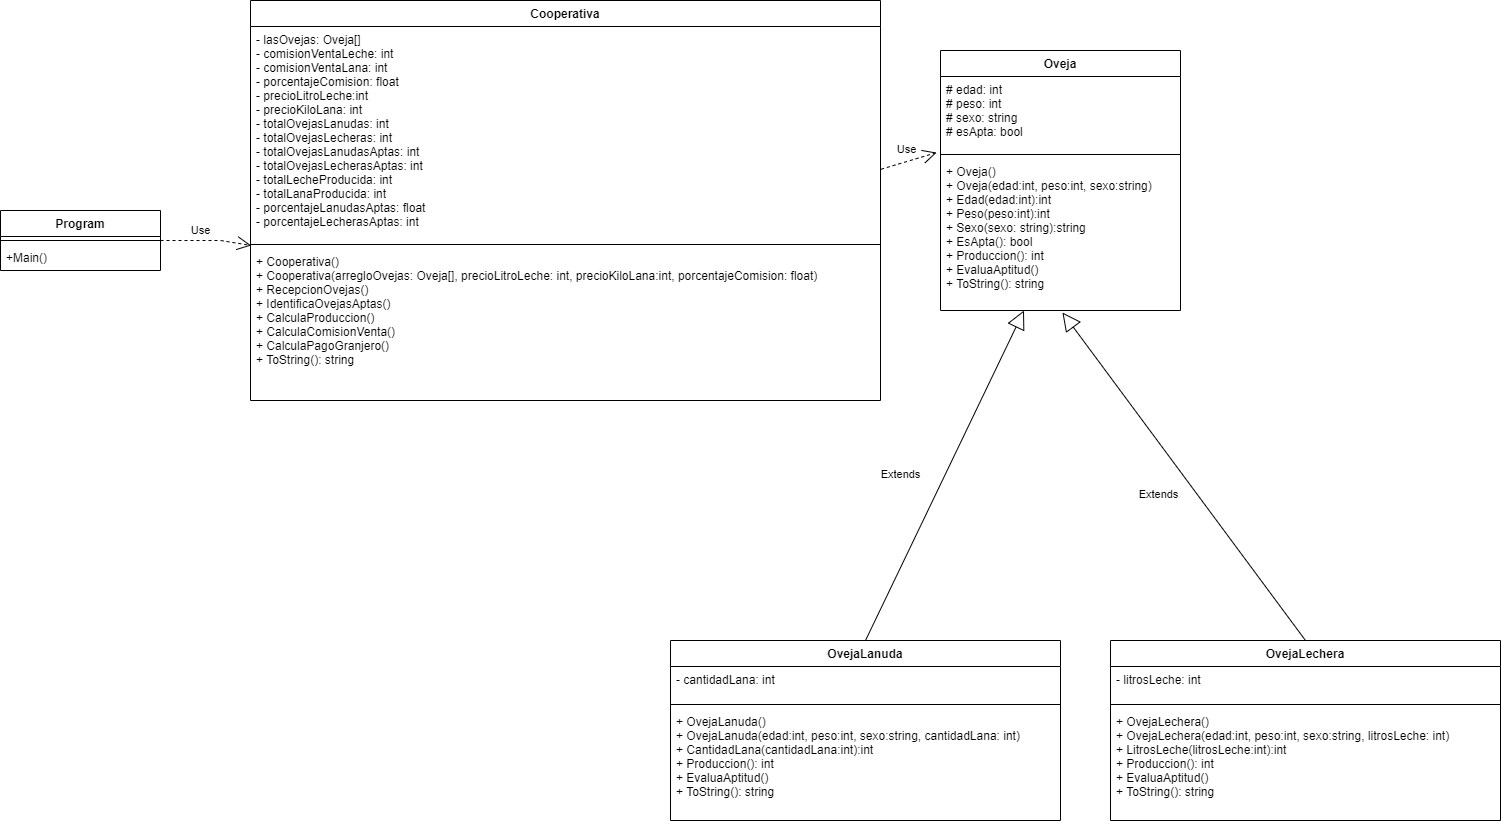
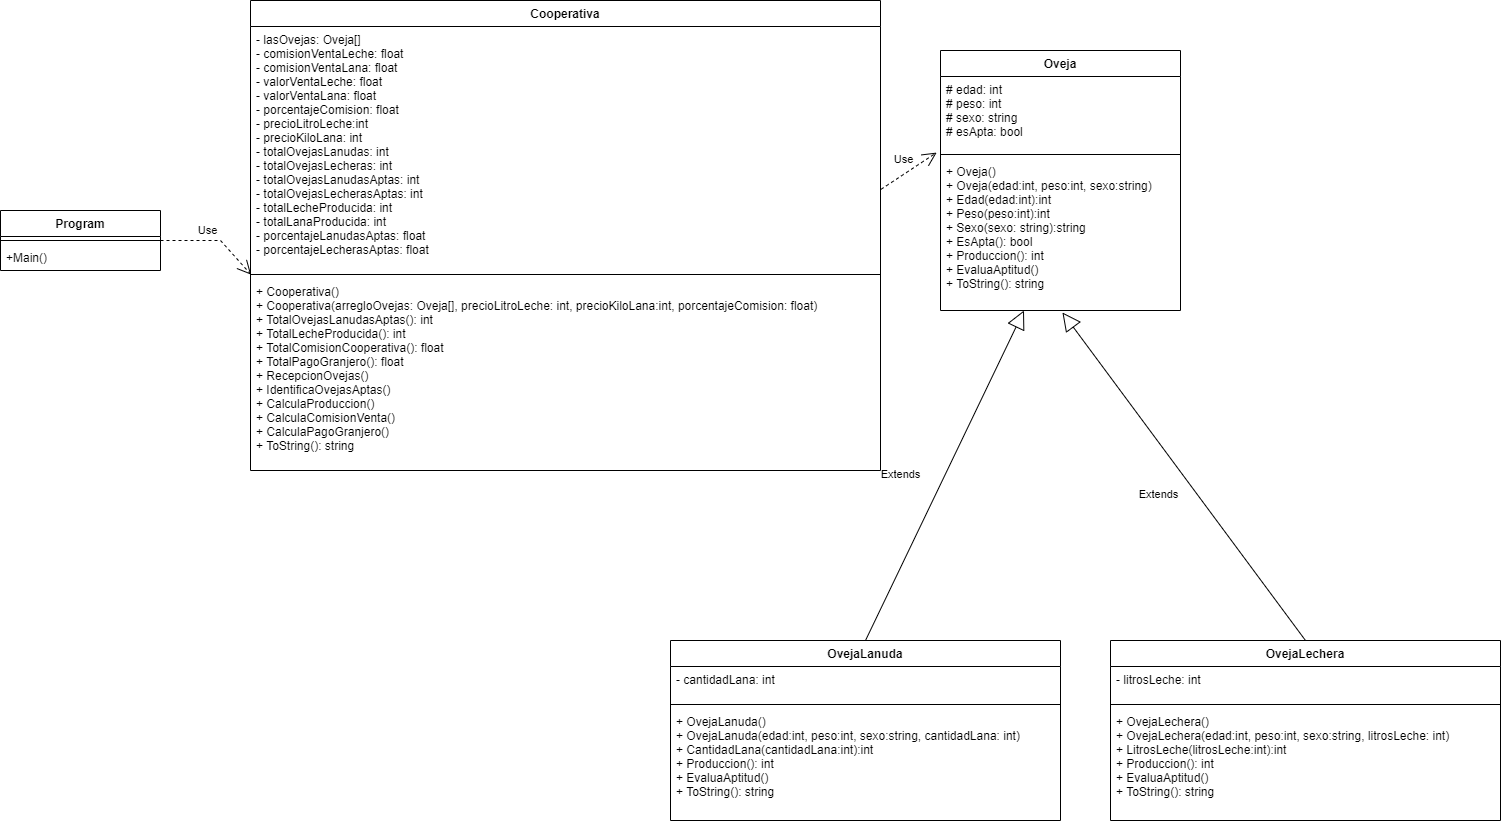
Sincronización y Actualización de Diagramas UML de clases

Changed region(s): [[0.1226, 0.0607, 0.5516, 0.5461], [0.5823, 0.182, 0.6129, 0.2124]]

diff --git a/ComercioOvejas/LogicaComercio/Cooperativa.cs b/ComercioOvejas/LogicaComercio/Cooperativa.cs
@@ -7,30 +7,10 @@
         private float valorVentaLeche, valorVentaLana;
         private float porcentajeComision;
         private int precioLitroLeche, precioKiloLana;
-        private int totalOvejasLanudasAptas, totalOvejasLecherasAptas;
         private int totalOvejasLanudas, totalOvejasLecheras;
+        private int totalOvejasLanudasAptas, totalOvejasLecherasAptas;
         private int totalLecheProducida, totalLanaProducida;
         private float porcentajeLanudasAptas, porcentajeLecherasAptas;
-
-        public int TotalOvejasLanudasAptas
-        {
-            get { return totalOvejasLanudasAptas; }
-        }
-
-        public int TotalLecheProducida
-        {
-            get { return totalLecheProducida; }
-        }
-        
-        public float TotalComisionCooperativa
-        {
-            get { return (comisionVentaLana + comisionVentaLeche); }
-        }        
-        
-        public float TotalPagoGranjero
-        {
-            get { return (valorVentaLana + valorVentaLeche); }
-        }
 
         /// <summary>
         /// Constructor predeterminado de la clase
@@ -56,6 +36,9 @@
             comisionVentaLeche = 0;
             valorVentaLana = 0;
             valorVentaLeche = 0;
+			
+			//Invocamos el metodo para asignar el tipo de Oveja
+			RecepcionOvejas();
         }
 
         /// <summary>
@@ -86,7 +69,27 @@
             comisionVentaLeche = 0;
             valorVentaLana = 0;
             valorVentaLeche = 0;
+        } 
+
+        public int TotalOvejasLanudasAptas
+        {
+            get { return totalOvejasLanudasAptas; }
+        }
+
+        public int TotalLecheProducida
+        {
+            get { return totalLecheProducida; }
+        }
+        
+        public float TotalComisionCooperativa
+        {
+            get { return (comisionVentaLana + comisionVentaLeche); }
         }        
+        
+        public float TotalPagoGranjero
+        {
+            get { return (valorVentaLana + valorVentaLeche); }
+        }		
 
         /// <summary>
         /// Función que simula la recepción de las ovejas
@@ -125,7 +128,6 @@
                     };
                 }
             }            
-
         }
 
         /// <summary>

diff --git a/ComercioOvejas/LogicaComercio/OvejaLanuda.cs b/ComercioOvejas/LogicaComercio/OvejaLanuda.cs
@@ -16,7 +16,8 @@
         {
             this.cantidadLana = cantidadLana;
         }
-        public int CantidadLana
+        
+		public int CantidadLana
         {
             get { return cantidadLana; }
             set { cantidadLana = value; }
@@ -41,7 +42,8 @@
                     return 0;
             }            
         }
-        public override void EvaluaAptitud()
+        
+		public override void EvaluaAptitud()
         {
             if (edad >= 24 && edad <= 84 && peso >= 35)
                 esApta = true;

diff --git a/ComercioOvejas/LogicaComercio/OvejaLechera.cs b/ComercioOvejas/LogicaComercio/OvejaLechera.cs
@@ -16,7 +16,8 @@
         {
             this.litrosLeche = litrosLeche;
         }
-        public int LitrosLeche
+        
+		public int LitrosLeche
         {
             get { return litrosLeche; }
             set

diff --git a/ComercioOvejas/LogicaComercio/Oveja.cs b/ComercioOvejas/LogicaComercio/Oveja.cs
@@ -56,7 +56,8 @@
         {
             get { return esApta; }
         }
-        public abstract int Produccion
+        
+		public abstract int Produccion
         {
             get;
         }
